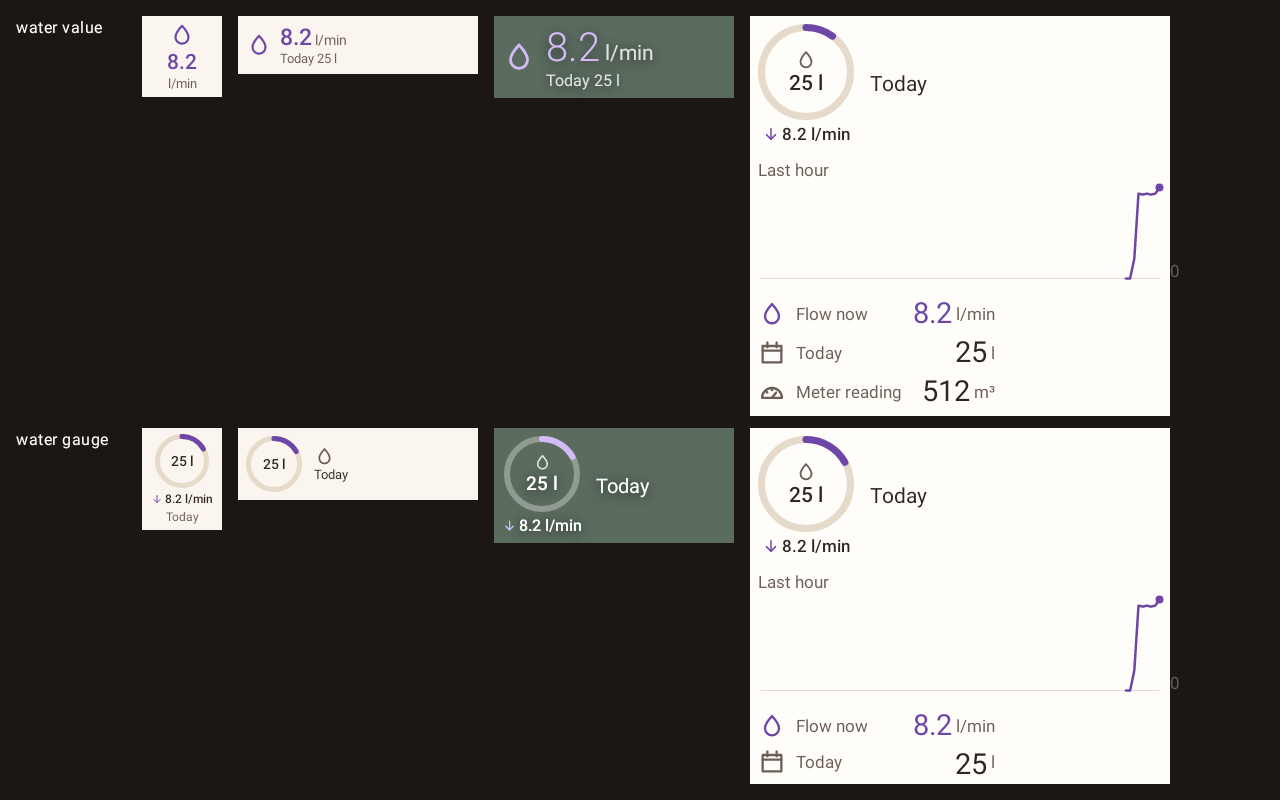
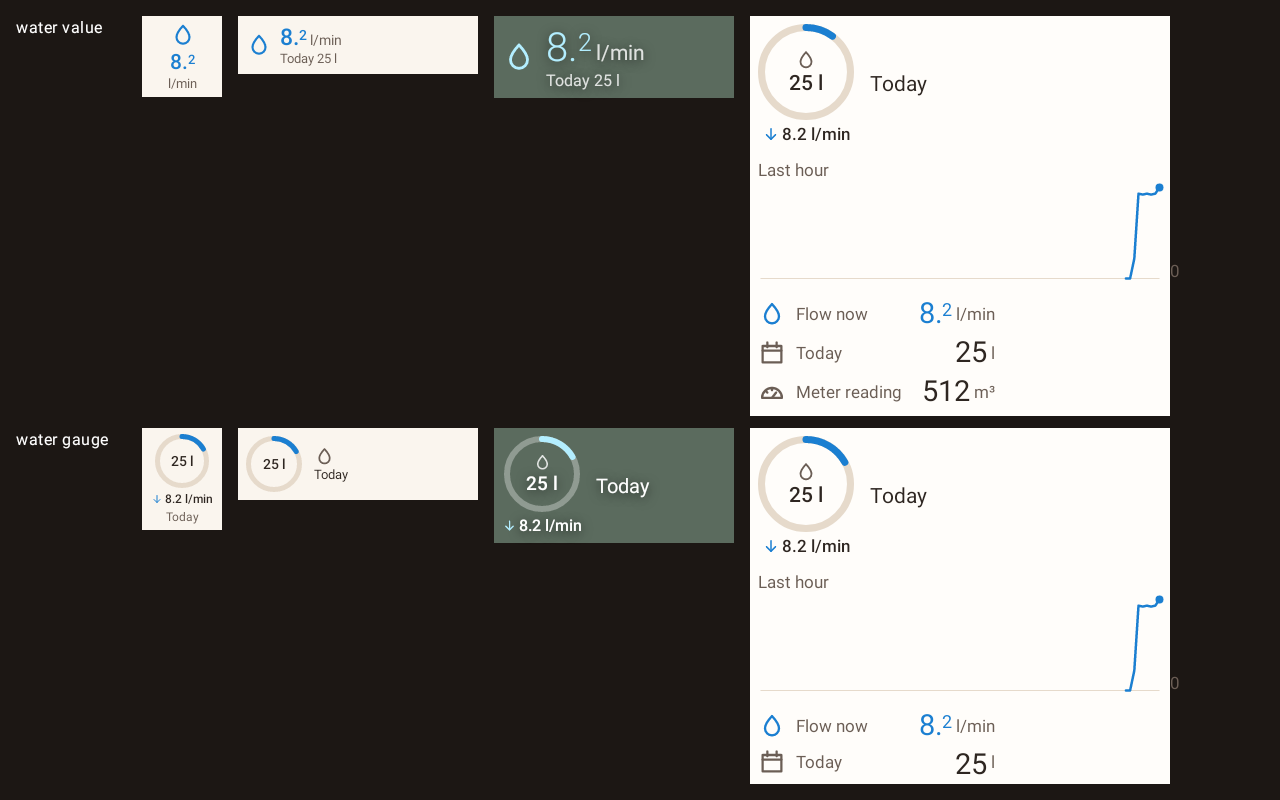
Plugins: departures as a list, prices as bars, the car's age and water in their own words and colour
iRail shows time, the whole destination, the platform and the delay as a badge;
electricity prices all quarter hours as bars with now marked and the cheapest
still to come lit; the car's last report through ctx.format.ago (its own four
strings per language gone); the water meter in the water tone.

diff --git a/android/frame/src/test/java/app/kinframe/frame/plugins/js/ExamplePluginsTest.kt b/android/frame/src/test/java/app/kinframe/frame/plugins/js/ExamplePluginsTest.kt
@@ -1,9 +1,10 @@
 package app.kinframe.frame.plugins.js
 
 import app.kinframe.core.plugin.GaugeView
+import app.kinframe.core.plugin.ListView
 import app.kinframe.core.plugin.NoneView
 import app.kinframe.core.plugin.PluginFormat
-import app.kinframe.core.plugin.RowsView
+import app.kinframe.core.plugin.SparklineStyle
 import app.kinframe.core.plugin.SparklineView
 import app.kinframe.core.plugin.StackView
 import app.kinframe.core.plugin.TextView
@@ -41,20 +42,20 @@ class ExamplePluginsTest {
         return JsPluginKit(bundle, s, language = language).also { kits += it }
     }
 
-    @Test fun departuresAsRows() = runBlocking {
+    @Test fun departuresAsAList() = runBlocking {
         val k = kit("community.irail-departures", "board(FIXTURE, ctx)", "liveboard-denderleeuw.json", mapOf("count" to 3))
-        val rows = k.view() as RowsView
-        assertEquals(3, rows.items.size)
-        assertEquals("22:20", rows.items[0].value)
-        assertEquals("Brussels Airport - Za… · spoor 2", rows.items[0].label)
-        assertEquals("22:23 +3", rows.items[1].value)
-        // The destination lives in the label, which the band doesn't show: API 1 has no list component (§11).
+        val list = k.view() as ListView
+        assertEquals(3, list.rows.size)
+        val first = list.rows[0]
+        // The whole destination now, with the platform and the delay in their own fields.
+        assertEquals(listOf("22:20", "Brussels Airport - Zaventem", "spoor 2", null), listOf(first.time, first.title, first.detail, first.badge))
+        assertEquals("22:23" to "+3", list.rows[1].time to list.rows[1].badge)
     }
 
     @Test fun departuresTowards() = runBlocking {
         val k = kit("community.irail-departures", "board(FIXTURE, ctx)", "liveboard-denderleeuw.json", mapOf("towards" to "gent"))
-        val rows = k.view() as RowsView
-        assertEquals(listOf("Gent-Sint-Pieters · spoor 4"), rows.items.map { it.label })
+        val list = k.view() as ListView
+        assertEquals(listOf("Gent-Sint-Pieters"), list.rows.map { it.title })
     }
 
     @Test fun airQuality() = runBlocking {
@@ -80,8 +81,14 @@ class ExamplePluginsTest {
         val d = k.view() as StackView
         val now = d.items[0] as ValueView
         assertTrue(now.value, now.value.endsWith("€/kWh"))
-        // 100 quarter hours on the day the clocks go back, averaged down to the sparkline's 96.
-        assertEquals(96, (d.items[1] as SparklineView).points.size)
+        // All 100 quarter hours of the day the clocks go back, as bars, "now" marked and the cheapest still to come lit.
+        val chart = d.items[1] as SparklineView
+        assertEquals(100, chart.points.size)
+        assertEquals(SparklineStyle.Bars, chart.style)
+        assertEquals(10, chart.marker)
+        val cheapest = (10 until 100).minBy { chart.points[it] }
+        assertEquals(cheapest, chart.highlight)
+        assertEquals(Tone.Good, chart.highlightTone)
     }
 
     @Test fun binDayOnlyTheDayBefore() = runBlocking {

diff --git a/plugins/examples/community.irail-departures/main.js b/plugins/examples/community.irail-departures/main.js
@@ -1,25 +1,23 @@
-// Example: the next departures from a Belgian station (iRail, https://docs.irail.be). Shows the limits of API 1 for a
-// departure board: rows hold one value and a label, and the band drops the labels, so the destination disappears there.
-
-function fit(head, tail, max) {
-  return head.length + tail.length <= max ? head + tail : head.slice(0, max - tail.length - 1) + '…' + tail;
-}
+// Example: the next departures from a Belgian station (iRail, https://docs.irail.be), as a `list`: time, destination,
+// platform and the delay as a badge. In the band the list shrinks to the times and their delays (docs/plugins.md §4.3).
 
 export function board(json, ctx) {
   const towards = (ctx.settings.towards || '').trim().toLowerCase();
   const all = ((json.departures && json.departures.departure) || []).filter((d) => d.left !== '1');
-  const deps = all.filter((d) => !towards || d.station.toLowerCase().includes(towards)).slice(0, Math.max(1, Math.min(4, ctx.settings.count | 0 || 3)));
+  const deps = all.filter((d) => !towards || d.station.toLowerCase().includes(towards)).slice(0, Math.max(1, Math.min(5, ctx.settings.count | 0 || 3)));
   if (!deps.length) return { type: 'text', lines: [ctx.t('none')], icon: 'train' };
+  const station = json.stationinfo && json.stationinfo.standardname;
   return {
-    type: 'rows',
-    items: deps.map((d) => {
+    type: 'list',
+    label: station ? station.slice(0, 32) : undefined,
+    rows: deps.map((d) => {
       const delay = Math.round((+d.delay || 0) / 60);
       const canceled = d.canceled === '1';
       return {
-        type: 'value',
-        value: ctx.format.time(+d.time * 1000) + (delay > 0 ? ' +' + delay : ''),
-        // Labels are at most 32 characters: the station name gives way ("Brussels Airport - Za… · spoor 2").
-        label: fit((canceled ? ctx.t('canceled') + ' · ' : '') + d.station, ' · ' + ctx.t('platform', { n: d.platform }), 32),
+        time: ctx.format.time(+d.time * 1000),
+        title: d.station.slice(0, 40),
+        detail: ctx.t('platform', { n: d.platform }).slice(0, 16),
+        badge: canceled ? ctx.t('canceled').slice(0, 10) : delay > 0 ? '+' + delay : undefined,
         icon: 'train',
         tone: canceled ? 'bad' : delay >= 5 ? 'warn' : undefined,
       };

diff --git a/plugins/examples/community.energy-prices/main.js b/plugins/examples/community.energy-prices/main.js
@@ -1,5 +1,5 @@
-// Example: day-ahead prices per quarter hour (Energy-Charts). A day has 96 quarter hours, but 92 or 100 when the clocks
-// change, while a sparkline takes at most 96 points; and a sparkline can't mark "now" or the cheapest hour (§11).
+// Example: day-ahead prices per quarter hour (Energy-Charts), as bars with "now" marked and the cheapest quarter hour
+// still to come highlighted. A day has 96 quarter hours, 92 or 100 when the clocks change; bars take up to 100.
 
 export function view(json, ctx) {
   const t = json.unix_seconds || [], p = json.price || [];
@@ -15,10 +15,10 @@ export function view(json, ctx) {
     type: 'value', value: fmt(p[i]), label: ctx.t('cheapest', { time: ctx.format.time(t[cheap] * 1000) }), icon: 'euro',
     tone: p[i] <= 0 ? 'good' : p[i] > 150 ? 'warn' : undefined,
   };
-  // Down to at most 96 points (DST days have 100): average neighbours.
-  const n = p.length, out = Math.min(96, n);
-  const pts = Array.from({ length: out }, (_, k) => { const a = Math.floor((k * n) / out), b = Math.max(a + 1, Math.floor(((k + 1) * n) / out)); let s = 0; for (let j = a; j < b; j++) s += p[j]; return kwh(s / (b - a)); });
-  const detail = { type: 'stack', items: [main, { type: 'sparkline', points: pts, label: ctx.t('today'), show_range: true }] };
+  const pts = p.slice(0, 100).map(kwh);
+  const chart = { type: 'sparkline', style: 'bars', points: pts, label: ctx.t('today'), show_range: true, tone: 'info', marker: i };
+  if (cheap < pts.length) Object.assign(chart, { highlight: cheap, highlight_tone: 'good' });
+  const detail = { type: 'stack', items: [main, chart] };
   return { main, detail };
 }
 

diff --git a/plugins/kinframe.ha-ev/main.js b/plugins/kinframe.ha-ev/main.js
@@ -39,14 +39,6 @@ export function read(s, ents, now) {
   };
 }
 
-function ago(ctx, at) {
-  const min = Math.floor((ctx.now() - at) / 60000);
-  if (min < 2) return ctx.t('updated_now');
-  if (min < 60) return ctx.t('updated_min', { n: min });
-  if (min < 48 * 60) return ctx.t('updated_h', { n: Math.floor(min / 60) });
-  return ctx.t('updated_d', { n: Math.floor(min / 1440) });
-}
-
 export function views(c, ctx) {
   const f = ctx.format, t = (k, v) => ctx.t(k, v);
   const rangeText = c.range !== null ? f.number(c.range, 0, c.rangeUnit) : null;
@@ -67,7 +59,8 @@ export function views(c, ctx) {
   if (c.charging && c.minutes) rows.push({ type: 'value', value: f.time(ctx.now() + c.minutes * 60000), label: t('full_at'), icon: 'clock' });
   const detail = { type: 'stack', items: [main] };
   if (rows.length) detail.items.push({ type: 'rows', items: rows });
-  if (c.updated) detail.items.push({ type: 'text', lines: [ago(ctx, c.updated)], icon: 'clock' });
+  // When the car last reported, in the frame's own words ("8 min ago"); the clock icon says what it is.
+  if (c.updated) detail.items.push({ type: 'text', lines: [ctx.format.ago(c.updated)], icon: 'clock' });
   return { main, detail };
 }
 

diff --git a/plugins/kinframe.homewizard-water/main.js b/plugins/kinframe.homewizard-water/main.js
@@ -7,14 +7,14 @@
 //   - render() and detail() only draw from that, so they never wait for the device.
 //   - parse(), record(), current() and main() are exported for the tests and are plain functions of their inputs.
 //
-// Water has no colour of its own in the view API yet (docs/plugins.md §11.1, item 9): `info` stands in for it.
+// Drawn in the `water` tone (docs/plugins.md §4.3), orange (`warn`) once today passes a typical day.
 
 import { configured, data, number } from 'kinframe/homewizard';
 import { dayTotals } from 'kinframe/day';
 import { series } from 'kinframe/series';
 
 const DEFAULT_TYPICAL_L = 250;
-const TONE = 'info';
+const TONE = 'water';
 /** Below this the meter is still (it reports 0, but allow for rounding). */
 const STILL_LPM = 0.05;
 

diff --git a/android/frame/src/test/java/app/kinframe/frame/plugins/js/HomeWizardDevicesTest.kt b/android/frame/src/test/java/app/kinframe/frame/plugins/js/HomeWizardDevicesTest.kt
@@ -62,7 +62,7 @@ class HomeWizardDevicesTest {
         assertEquals("7,6", running.value)
         assertEquals("l/min", running.unit)
         assertEquals("Vandaag 12${nbsp}l", running.label)
-        assertEquals(Tone.Info, running.tone)
+        assertEquals(Tone.Water, running.tone)
     }
 
     @Test fun waterAsARingAgainstATypicalDay() = runBlocking {
@@ -75,7 +75,7 @@ class HomeWizardDevicesTest {
         assertEquals(25f, ring.percent, 0.01f)
         assertEquals("50${nbsp}l", ring.label)
         assertEquals("Vandaag", ring.caption)
-        assertEquals(Tone.Info, ring.tone)
+        assertEquals(Tone.Water, ring.tone)
         assertEquals(listOf("7,6${nbsp}l/min"), ring.sub.map { it.value })
 
         k.now += 2_000

diff --git a/android/frame/src/test/java/app/kinframe/frame/plugins/js/HomeAssistantPluginsTest.kt b/android/frame/src/test/java/app/kinframe/frame/plugins/js/HomeAssistantPluginsTest.kt
@@ -134,7 +134,7 @@ class HomeAssistantPluginsTest {
         assertEquals(listOf("Aangesloten", "EV3 · 375${nbsp}km"), (main.items[1] as TextView).lines)
         assertEquals(Instant.parse("2026-10-25T11:55:32Z").toEpochMilli(), k.ctx.dataTime)
         val detail = k.detail() as StackView
-        assertEquals("8 u geleden bijgewerkt", (detail.items.last() as TextView).lines.single())
+        assertEquals("8 u geleden", (detail.items.last() as TextView).lines.single())
     }
 
     @Test fun chargingShowsWhenItIsFull() = runBlocking {

diff --git a/docs/plugins.md b/docs/plugins.md
@@ -561,7 +561,7 @@ two helpers the forms can use:
 - **View:** `value`: today's litres, or while water runs the flow ("7,6 l/min", unit separate) with today's litres as
   its label. `gauge`: a ring of today against the typical day (orange once past it), the litres inside, the flow under
   it while water runs (after the HomeWizard Energy Display's water ring). Detail: the ring, the flow's last hour, and
-  rows for the flow now, today and the meter reading. Water has no tone of its own yet (`info`, §11.1 item 9).
+  rows for the flow now, today and the meter reading. Drawn in the `water` tone (§4.3).
 - **As a template:** a device on the home network that counts something; `parse`/`record`/`current`/`main` are plain
   exported functions, tested without the network.
 
@@ -627,9 +627,9 @@ display's temperature row), media icons, `multiple` entity settings (two inverte
    repeat. Needs the frame's own translations (ICU's relative formatter needs API 24; the frame is API 23).
    **Built:** `ctx.format.day/ago/until` (§3.2), with nine words per language in the frame's strings
    (`plugin_rel_*`, all its languages) and weekday names and year-less short dates from the locale; bin day uses
-   it. The car (`kinframe.ha-ev`) still carries its own "Updated {n} min ago" until the shared Home Assistant
-   module lands.
-3. *Built, §4.3.* **Sparkline markers, bars and longer series.** *Electricity prices:* a day has 92, 96 or 100 quarter hours (the
+   it, and so does the car's "8 min ago" in its detail card.
+3. *Built, §4.3; electricity prices shows all quarter hours as bars, "now" marked, the cheapest still to come lit.*
+   **Sparkline markers, bars and longer series.** *Electricity prices:* a day has 92, 96 or 100 quarter hours (the
    fixture is the day the clocks went back: 100), the sparkline takes 96, so the plugin averages down; and it can't
    mark "now" or the cheapest hour, which is the whole point of a price chart. A `bars` style with a highlighted index
    (and up to 100 points) would do.
